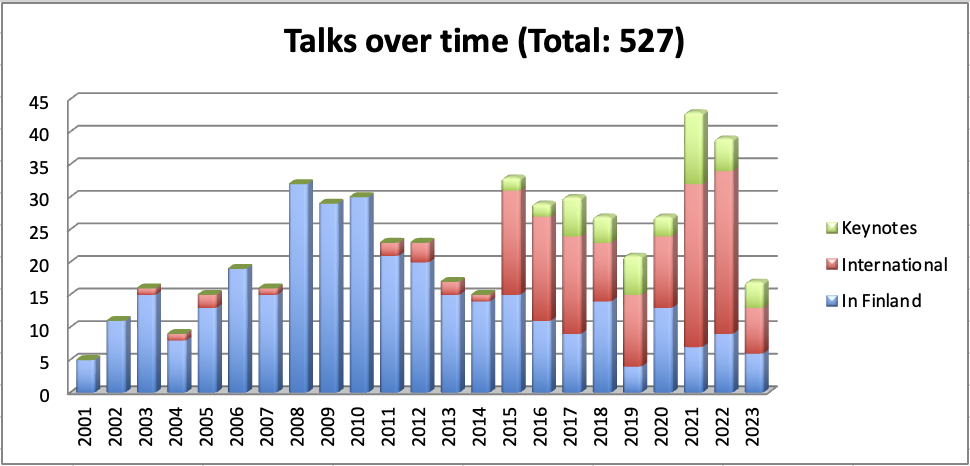
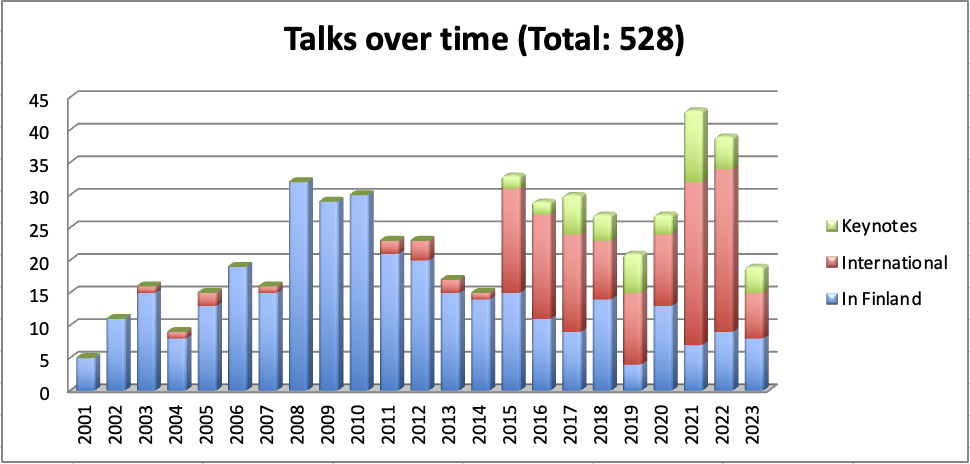
Updated talk stats

diff --git a/past_talks/index.html b/past_talks/index.html
@@ -40,7 +40,7 @@
     <div class="box2">
 
         <div class="card2">
-        <div class="card2text">Speaking in public 2001-2022, Maaret has delivered 529 sessions out of which 50 are keynote sessions.</div>
+        <div class="card2text">Speaking in public 2001-2023, Maaret has delivered 528 sessions out of which 50 are keynote sessions.</div>
             <img src="../images/Talks2023.png" alt="statistics of talks from Maaret">
         <div class="card2text"><i class="fab fa-slideshare"></i> slides, <i class="fas fa-video"></i>video, <i class="far fa-gem"></i>article, <i class="fas fa-bars"></i>abstract available on some of the talks.</div>
         </div>
@@ -117,9 +117,9 @@
             <div class="wherewhenwhere">Customer Event, January 30th, 2023, Online</div>
             <div class="wherewhenwhere">Supermetrics Tech Meetup, August 17th 2022, Helsinki, Finland</div>
             <a href="https://speakerdeck.com/maaretp/talk-lets-do-a-thing-and-call-it-foo-2023-ed"><i class="fab fa-slideshare"></i></a>
-            <a href="https://www.youtube.com/watch?v=lkJ6bixMrg8&t=2985s"><i class="fas fa-video"></i></a>
+            <a href="https://vimeo.com/842230319?fbclid=IwAR2UvQxNAz3Aw4LkInKXvb4g2j4LUCrOdVhsU6XEOYd82Rmr38diurYR5C8"><i class="fas fa-video"></i></a>
             <a href="https://www.lambdatest.com/blog/lets-do-it-a-thing-and-call-it-foo/"><i class="far fa-gem"></i></a>
-            <div class="talktheme">#ResultGap, #UnitTesting, #ExploratoryTesting</div>
+            <div class="talktheme">#ResultGap, #UnitTesting, #ExploratoryTesting, #GenAI</div>
         </div>
 
         <div class="card2">

diff --git a/index.html b/index.html
@@ -61,9 +61,9 @@
         <img src="./images/maaret.jpg" alt="Maaret Pyhäjärvi">
         <div class="about-text">
             <h2>About Me</h2>
-            <h5>Development Manager at Vaisala. <br>Testing Specialist. <br>Teaching/Consulting on the side. <br>Serial volunteer. </h5>
+            <h5>Development Manager at Vaisala. <br>Testing Specialist. Polyglot Programmer.<br>Teaching/Consulting on the side. <br>Serial volunteer. </h5>
             <div class="speaking">
-                <h6>Delivered 527 sessions at events in 28 countries</h6>
+                <h6>Delivered 528 sessions at events in 28 countries</h6>
                     <img src="images/flags/4x3/fi.svg" alt="Finland">
                     <img src="images/flags/4x3/se.svg" alt="Sweden">
                     <img src="images/flags/4x3/no.svg" alt="Norway">
@@ -147,7 +147,7 @@
             <i class="fas fa-microphone"></i>
             <h5>Past Talks</h5>
             <div class="preview">
-                <p>I have spoken in 28 countries, delivering 50 keynotes and 527 talks by end of 2023 in total. </p>
+                <p>I have spoken in 28 countries, delivering 50 keynotes and 528 talks by end of 2023. </p>
                 <p style="text-align:center;">
                     <a class="button" href="./past_talks/index.html">Read more...</a>
                 </p>
